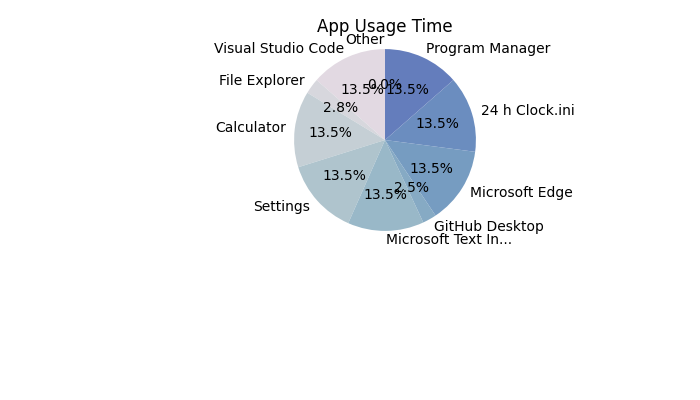
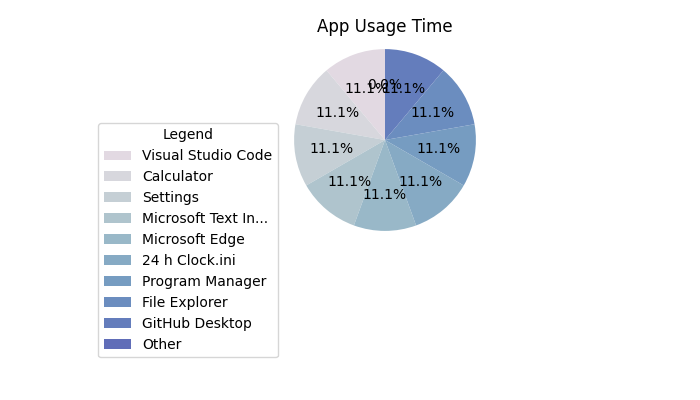
Adjusted pie chart
Added pie chart legend and fixed title clipping issues. Number denominator prescence can still clip if other is set to 0.0%

diff --git a/AppReader_Remake_Testing.py b/AppReader_Remake_Testing.py
@@ -179,9 +179,10 @@ def piechart():
         color_indices = np.arange(len(app_names))
         cmap = plt.colormaps.get_cmap("twilight")
         colors = [cmap(index*15) for index in color_indices]
-        ax.pie(times, labels=app_names, autopct='%1.1f%%', startangle=90, colors=colors)
+        ax.pie(times, autopct='%1.1f%%', startangle=90, colors=colors)
         ax.axis('equal')
         ax.set_title('App Usage Time')
+        ax.legend(app_names, title="Legend", loc="center left", bbox_to_anchor=(-0.1, 0))
         plt.subplots_adjust(left=0.2,bottom=0.4, top = 0.9, right = 0.9)
         plt.savefig(piechartpath)
         
